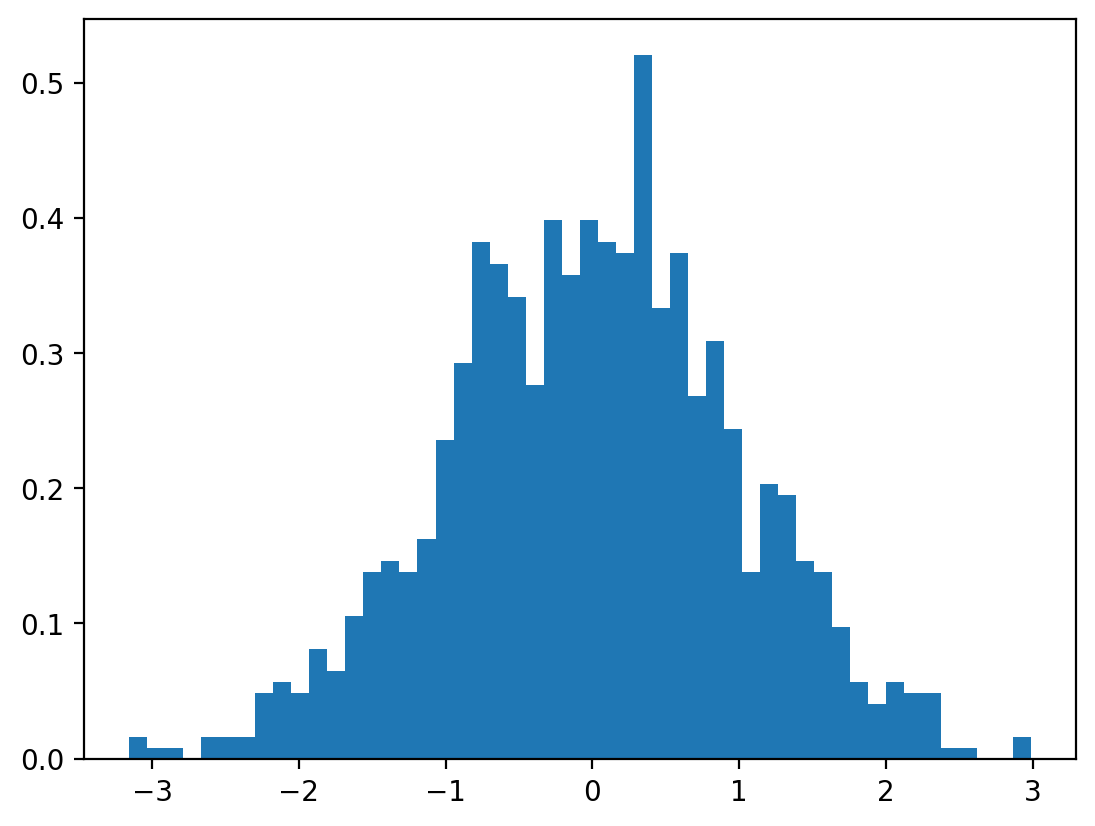
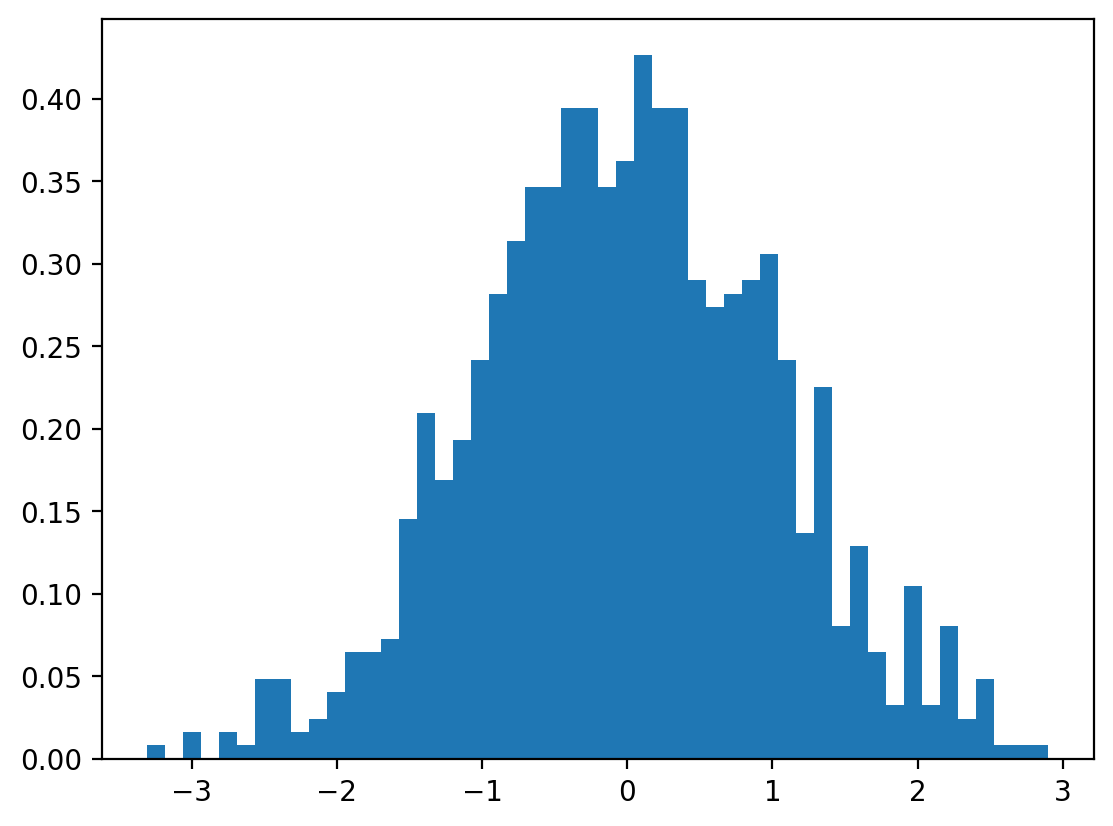
Built site for gh-pages

diff --git a/notebooks/cdf.html b/notebooks/cdf.html
@@ -199,7 +199,7 @@ pre > code.sourceCode > span > a:first-child::before { text-decoration: underlin
 </header>
 
 
-<div id="cell-1" class="cell" data-execution_count="1">
+<div id="cell-1" class="cell" data-execution_count="15">
 <div class="sourceCode cell-code" id="cb1"><pre class="sourceCode python code-with-copy"><code class="sourceCode python"><span id="cb1-1"><a href="#cb1-1" aria-hidden="true" tabindex="-1"></a><span class="im">import</span> matplotlib.pyplot <span class="im">as</span> plt</span>
 <span id="cb1-2"><a href="#cb1-2" aria-hidden="true" tabindex="-1"></a><span class="im">import</span> numpy <span class="im">as</span> np</span>
 <span id="cb1-3"><a href="#cb1-3" aria-hidden="true" tabindex="-1"></a><span class="bu">print</span>(np.__version__)</span>
@@ -216,28 +216,28 @@ pre > code.sourceCode > span > a:first-child::before { text-decoration: underlin
 </div>
 <section id="generating-random-numbers-from-a-categorical-distribution" class="level1">
 <h1>Generating random numbers from a categorical distribution</h1>
-<div id="cell-3" class="cell" data-execution_count="2">
+<div id="cell-3" class="cell" data-execution_count="16">
 <div class="sourceCode cell-code" id="cb3"><pre class="sourceCode python code-with-copy"><code class="sourceCode python"><span id="cb3-1"><a href="#cb3-1" aria-hidden="true" tabindex="-1"></a>probs <span class="op">=</span> torch.tensor([<span class="fl">0.1</span>, <span class="fl">0.2</span>, <span class="fl">0.3</span>, <span class="fl">0.4</span>])</span>
 <span id="cb3-2"><a href="#cb3-2" aria-hidden="true" tabindex="-1"></a><span class="bu">print</span>(probs)</span></code><button title="Copy to Clipboard" class="code-copy-button"><i class="bi"></i></button></pre></div>
 <div class="cell-output cell-output-stdout">
 <pre><code>tensor([0.1000, 0.2000, 0.3000, 0.4000])</code></pre>
 </div>
 </div>
-<div id="cell-4" class="cell" data-execution_count="3">
+<div id="cell-4" class="cell" data-execution_count="21">
 <div class="sourceCode cell-code" id="cb5"><pre class="sourceCode python code-with-copy"><code class="sourceCode python"><span id="cb5-1"><a href="#cb5-1" aria-hidden="true" tabindex="-1"></a>unif <span class="op">=</span> torch.distributions.uniform.Uniform(<span class="dv">0</span>, <span class="dv">1</span>)</span>
 <span id="cb5-2"><a href="#cb5-2" aria-hidden="true" tabindex="-1"></a><span class="bu">print</span>(unif.sample())</span></code><button title="Copy to Clipboard" class="code-copy-button"><i class="bi"></i></button></pre></div>
 <div class="cell-output cell-output-stdout">
-<pre><code>tensor(0.9147)</code></pre>
+<pre><code>tensor(0.1083)</code></pre>
 </div>
 </div>
-<div id="cell-5" class="cell" data-execution_count="4">
+<div id="cell-5" class="cell" data-execution_count="22">
 <div class="sourceCode cell-code" id="cb7"><pre class="sourceCode python code-with-copy"><code class="sourceCode python"><span id="cb7-1"><a href="#cb7-1" aria-hidden="true" tabindex="-1"></a>cum_sum_prob <span class="op">=</span> torch.cumsum(probs, dim<span class="op">=</span><span class="dv">0</span>)</span>
 <span id="cb7-2"><a href="#cb7-2" aria-hidden="true" tabindex="-1"></a><span class="bu">print</span>(cum_sum_prob)</span></code><button title="Copy to Clipboard" class="code-copy-button"><i class="bi"></i></button></pre></div>
 <div class="cell-output cell-output-stdout">
 <pre><code>tensor([0.1000, 0.3000, 0.6000, 1.0000])</code></pre>
 </div>
 </div>
-<div id="cell-6" class="cell" data-execution_count="5">
+<div id="cell-6" class="cell" data-execution_count="25">
 <div class="sourceCode cell-code" id="cb9"><pre class="sourceCode python code-with-copy"><code class="sourceCode python"><span id="cb9-1"><a href="#cb9-1" aria-hidden="true" tabindex="-1"></a>symbols  <span class="op">=</span> torch.tensor([<span class="dv">1</span>, <span class="dv">2</span>, <span class="dv">3</span>, <span class="dv">4</span>])</span>
 <span id="cb9-2"><a href="#cb9-2" aria-hidden="true" tabindex="-1"></a><span class="bu">print</span>(symbols)</span>
 <span id="cb9-3"><a href="#cb9-3" aria-hidden="true" tabindex="-1"></a>sample <span class="op">=</span> unif.sample()</span>
@@ -252,99 +252,59 @@ pre > code.sourceCode > span > a:first-child::before { text-decoration: underlin
 <span id="cb9-12"><a href="#cb9-12" aria-hidden="true" tabindex="-1"></a>    <span class="bu">print</span>(symbols[<span class="dv">3</span>])</span></code><button title="Copy to Clipboard" class="code-copy-button"><i class="bi"></i></button></pre></div>
 <div class="cell-output cell-output-stdout">
 <pre><code>tensor([1, 2, 3, 4])
-tensor(0.1879)
-tensor(2)</code></pre>
+tensor(0.6677)
+tensor(4)</code></pre>
 </div>
 </div>
-<div id="cell-7" class="cell" data-execution_count="6">
+<div id="cell-7" class="cell" data-execution_count="26">
 <div class="sourceCode cell-code" id="cb11"><pre class="sourceCode python code-with-copy"><code class="sourceCode python"><span id="cb11-1"><a href="#cb11-1" aria-hidden="true" tabindex="-1"></a>sample <span class="op">&lt;=</span> cum_sum_prob</span></code><button title="Copy to Clipboard" class="code-copy-button"><i class="bi"></i></button></pre></div>
-<div class="cell-output cell-output-display" data-execution_count="6">
-<pre><code>tensor([False,  True,  True,  True])</code></pre>
+<div class="cell-output cell-output-display" data-execution_count="26">
+<pre><code>tensor([False, False, False,  True])</code></pre>
 </div>
 </div>
-<div id="cell-8" class="cell" data-execution_count="7">
+<div id="cell-8" class="cell" data-execution_count="27">
 <div class="sourceCode cell-code" id="cb13"><pre class="sourceCode python code-with-copy"><code class="sourceCode python"><span id="cb13-1"><a href="#cb13-1" aria-hidden="true" tabindex="-1"></a>symbols[sample <span class="op">&lt;</span> cum_sum_prob][<span class="dv">0</span>]</span></code><button title="Copy to Clipboard" class="code-copy-button"><i class="bi"></i></button></pre></div>
-<div class="cell-output cell-output-display" data-execution_count="7">
-<pre><code>tensor(2)</code></pre>
+<div class="cell-output cell-output-display" data-execution_count="27">
+<pre><code>tensor(4)</code></pre>
 </div>
 </div>
-<div id="cell-9" class="cell" data-execution_count="8">
+<div id="cell-9" class="cell" data-execution_count="28">
 <div class="sourceCode cell-code" id="cb15"><pre class="sourceCode python code-with-copy"><code class="sourceCode python"><span id="cb15-1"><a href="#cb15-1" aria-hidden="true" tabindex="-1"></a><span class="co">### Even more efficient</span></span>
 <span id="cb15-2"><a href="#cb15-2" aria-hidden="true" tabindex="-1"></a>index <span class="op">=</span> torch.searchsorted(cum_sum_prob, sample)</span>
 <span id="cb15-3"><a href="#cb15-3" aria-hidden="true" tabindex="-1"></a><span class="bu">print</span>(symbols[index])</span></code><button title="Copy to Clipboard" class="code-copy-button"><i class="bi"></i></button></pre></div>
 <div class="cell-output cell-output-stdout">
-<pre><code>tensor(2)</code></pre>
+<pre><code>tensor(4)</code></pre>
 </div>
 </div>
-<div id="cell-10" class="cell" data-execution_count="9">
+<div id="cell-10" class="cell" data-execution_count="34">
 <div class="sourceCode cell-code" id="cb17"><pre class="sourceCode python code-with-copy"><code class="sourceCode python"><span id="cb17-1"><a href="#cb17-1" aria-hidden="true" tabindex="-1"></a><span class="co">### Vectorized</span></span>
-<span id="cb17-2"><a href="#cb17-2" aria-hidden="true" tabindex="-1"></a>num_samples <span class="op">=</span> <span class="dv">1000</span></span>
+<span id="cb17-2"><a href="#cb17-2" aria-hidden="true" tabindex="-1"></a>num_samples <span class="op">=</span> <span class="dv">100000</span></span>
 <span id="cb17-3"><a href="#cb17-3" aria-hidden="true" tabindex="-1"></a>unif_samples <span class="op">=</span> unif.sample((num_samples,))</span>
 <span id="cb17-4"><a href="#cb17-4" aria-hidden="true" tabindex="-1"></a></span>
 <span id="cb17-5"><a href="#cb17-5" aria-hidden="true" tabindex="-1"></a>index <span class="op">=</span> torch.searchsorted(cum_sum_prob, unif_samples)</span>
 <span id="cb17-6"><a href="#cb17-6" aria-hidden="true" tabindex="-1"></a>our_samples <span class="op">=</span> symbols[index]</span>
 <span id="cb17-7"><a href="#cb17-7" aria-hidden="true" tabindex="-1"></a><span class="bu">print</span>(our_samples)</span></code><button title="Copy to Clipboard" class="code-copy-button"><i class="bi"></i></button></pre></div>
 <div class="cell-output cell-output-stdout">
-<pre><code>tensor([1, 3, 3, 1, 2, 3, 2, 3, 1, 2, 4, 1, 3, 2, 2, 4, 4, 3, 3, 4, 2, 4, 4, 3,
-        4, 4, 2, 4, 4, 4, 2, 4, 4, 1, 4, 3, 3, 3, 4, 4, 2, 3, 3, 1, 4, 4, 4, 3,
-        3, 4, 1, 4, 4, 1, 3, 4, 4, 3, 4, 2, 2, 3, 1, 3, 4, 2, 4, 4, 3, 4, 4, 4,
-        2, 3, 3, 3, 4, 4, 4, 2, 2, 3, 3, 3, 4, 2, 2, 4, 2, 3, 4, 3, 1, 4, 4, 2,
-        4, 4, 4, 4, 3, 4, 4, 1, 3, 3, 1, 2, 1, 1, 2, 3, 4, 3, 3, 3, 3, 2, 4, 4,
-        4, 3, 1, 3, 1, 2, 4, 4, 3, 4, 1, 2, 3, 4, 4, 2, 2, 3, 2, 2, 3, 4, 4, 4,
-        4, 4, 2, 2, 4, 3, 2, 4, 4, 3, 4, 3, 3, 2, 4, 4, 3, 3, 2, 4, 4, 2, 4, 4,
-        2, 4, 3, 3, 2, 4, 4, 3, 4, 2, 4, 4, 3, 3, 4, 2, 2, 4, 3, 1, 2, 4, 4, 3,
-        3, 4, 3, 4, 2, 4, 3, 4, 3, 2, 4, 3, 3, 4, 2, 1, 4, 3, 2, 4, 1, 3, 4, 4,
-        3, 2, 4, 4, 3, 1, 4, 2, 4, 4, 3, 4, 3, 4, 4, 4, 3, 3, 4, 4, 4, 4, 3, 3,
-        3, 3, 4, 4, 3, 3, 1, 4, 4, 3, 4, 4, 3, 3, 2, 4, 4, 4, 2, 2, 4, 4, 4, 3,
-        2, 4, 4, 2, 2, 4, 4, 4, 4, 2, 2, 2, 4, 4, 4, 4, 2, 3, 3, 3, 1, 4, 3, 4,
-        4, 1, 4, 1, 4, 4, 3, 3, 3, 3, 4, 4, 1, 3, 3, 4, 3, 4, 4, 1, 3, 1, 4, 2,
-        3, 3, 3, 1, 1, 4, 4, 4, 4, 4, 4, 2, 3, 3, 3, 3, 4, 4, 2, 4, 3, 2, 2, 4,
-        4, 4, 4, 3, 4, 3, 4, 3, 4, 2, 3, 3, 2, 4, 3, 4, 4, 3, 4, 4, 1, 3, 3, 2,
-        4, 4, 3, 4, 1, 3, 3, 1, 4, 3, 3, 4, 4, 4, 4, 4, 3, 4, 4, 4, 2, 3, 4, 4,
-        2, 2, 3, 3, 2, 3, 3, 4, 4, 1, 2, 3, 4, 4, 4, 3, 4, 3, 3, 3, 4, 3, 4, 4,
-        4, 1, 3, 4, 2, 2, 2, 4, 1, 4, 4, 2, 4, 2, 4, 1, 3, 2, 3, 3, 4, 4, 3, 2,
-        3, 4, 4, 4, 3, 4, 3, 2, 4, 3, 3, 4, 3, 2, 4, 2, 4, 3, 2, 3, 4, 4, 4, 2,
-        4, 3, 4, 3, 3, 4, 2, 3, 2, 3, 1, 3, 4, 3, 4, 4, 3, 1, 3, 3, 4, 3, 1, 3,
-        1, 3, 1, 1, 4, 4, 3, 4, 4, 2, 1, 3, 2, 3, 1, 3, 4, 3, 4, 1, 4, 3, 2, 3,
-        3, 2, 3, 4, 2, 1, 3, 2, 4, 3, 2, 1, 3, 2, 4, 1, 3, 3, 3, 4, 3, 4, 4, 4,
-        1, 4, 4, 4, 4, 2, 2, 4, 4, 4, 4, 3, 1, 2, 4, 4, 3, 4, 2, 4, 3, 2, 3, 3,
-        3, 2, 4, 4, 2, 1, 4, 4, 4, 2, 3, 3, 2, 1, 1, 2, 4, 3, 4, 3, 2, 2, 3, 4,
-        2, 4, 3, 4, 4, 4, 3, 4, 4, 3, 3, 2, 4, 1, 4, 2, 4, 2, 4, 4, 4, 2, 2, 4,
-        2, 4, 2, 3, 3, 4, 2, 2, 1, 4, 3, 4, 4, 2, 2, 2, 4, 1, 3, 4, 4, 4, 3, 3,
-        2, 2, 2, 3, 4, 2, 4, 4, 4, 3, 2, 4, 4, 4, 3, 4, 3, 3, 1, 1, 2, 3, 3, 1,
-        2, 3, 4, 2, 2, 1, 4, 4, 4, 2, 4, 4, 3, 2, 3, 4, 1, 4, 4, 2, 3, 4, 4, 3,
-        4, 3, 4, 3, 4, 3, 4, 1, 4, 3, 4, 4, 3, 1, 4, 4, 3, 2, 3, 4, 3, 3, 3, 2,
-        3, 2, 4, 3, 3, 3, 3, 2, 3, 2, 4, 3, 3, 4, 2, 4, 3, 1, 4, 2, 4, 3, 4, 3,
-        2, 1, 1, 4, 3, 2, 3, 2, 3, 2, 3, 4, 4, 4, 2, 4, 4, 3, 4, 2, 3, 1, 4, 1,
-        4, 3, 4, 3, 4, 4, 3, 4, 1, 1, 2, 3, 4, 3, 4, 3, 2, 3, 3, 4, 4, 1, 3, 4,
-        2, 4, 2, 2, 4, 3, 4, 4, 3, 4, 4, 3, 3, 3, 4, 4, 4, 2, 2, 3, 4, 3, 3, 2,
-        4, 4, 4, 4, 3, 4, 4, 4, 4, 4, 2, 4, 3, 2, 2, 2, 4, 4, 3, 3, 1, 3, 3, 4,
-        2, 4, 4, 4, 2, 4, 2, 4, 1, 3, 2, 3, 3, 4, 4, 4, 3, 3, 4, 1, 4, 3, 3, 4,
-        4, 1, 2, 2, 2, 2, 4, 3, 3, 4, 2, 1, 3, 2, 3, 3, 1, 4, 1, 4, 3, 4, 3, 4,
-        1, 3, 4, 4, 2, 4, 4, 3, 3, 2, 4, 4, 4, 3, 2, 3, 4, 3, 4, 4, 4, 3, 4, 4,
-        3, 4, 3, 3, 4, 4, 4, 2, 4, 3, 4, 1, 1, 3, 4, 4, 4, 3, 3, 4, 2, 4, 4, 3,
-        3, 3, 3, 3, 3, 4, 4, 2, 4, 4, 4, 1, 4, 4, 4, 3, 4, 3, 2, 2, 4, 2, 3, 3,
-        4, 2, 1, 4, 3, 4, 2, 3, 3, 2, 4, 1, 4, 4, 3, 2, 4, 3, 1, 1, 3, 4, 4, 4,
-        4, 3, 4, 3, 3, 3, 3, 1, 1, 3, 2, 3, 2, 4, 2, 3, 3, 3, 2, 3, 4, 2, 2, 4,
-        2, 2, 4, 1, 1, 1, 4, 2, 4, 3, 4, 3, 4, 3, 1, 4])</code></pre>
+<pre><code>tensor([4, 3, 4,  ..., 1, 1, 3])</code></pre>
 </div>
 </div>
-<div id="cell-11" class="cell" data-execution_count="10">
+<div id="cell-11" class="cell" data-execution_count="35">
 <div class="sourceCode cell-code" id="cb19"><pre class="sourceCode python code-with-copy"><code class="sourceCode python"><span id="cb19-1"><a href="#cb19-1" aria-hidden="true" tabindex="-1"></a>samples_series <span class="op">=</span> pd.Series(our_samples)</span>
 <span id="cb19-2"><a href="#cb19-2" aria-hidden="true" tabindex="-1"></a>samples_series_norm <span class="op">=</span> samples_series.value_counts(normalize<span class="op">=</span><span class="va">True</span>)</span>
 <span id="cb19-3"><a href="#cb19-3" aria-hidden="true" tabindex="-1"></a>samples_series_norm.sort_index(inplace<span class="op">=</span><span class="va">True</span>)</span>
 <span id="cb19-4"><a href="#cb19-4" aria-hidden="true" tabindex="-1"></a>samples_series_norm.plot(kind<span class="op">=</span><span class="st">'bar'</span>, rot<span class="op">=</span><span class="dv">0</span>)</span>
 <span id="cb19-5"><a href="#cb19-5" aria-hidden="true" tabindex="-1"></a><span class="cf">for</span> i <span class="kw">in</span> <span class="bu">range</span>(<span class="dv">4</span>):</span>
-<span id="cb19-6"><a href="#cb19-6" aria-hidden="true" tabindex="-1"></a>    plt.axhline(probs[i].item(), color<span class="op">=</span><span class="st">'r'</span>, linestyle<span class="op">=</span><span class="st">'--'</span>)</span></code><button title="Copy to Clipboard" class="code-copy-button"><i class="bi"></i></button></pre></div>
+<span id="cb19-6"><a href="#cb19-6" aria-hidden="true" tabindex="-1"></a>    plt.axhline(probs[i].item(), color<span class="op">=</span><span class="st">'r'</span>, linestyle<span class="op">=</span><span class="st">'--'</span>)</span>
+<span id="cb19-7"><a href="#cb19-7" aria-hidden="true" tabindex="-1"></a>plt.ylim(<span class="dv">0</span>, <span class="fl">0.5</span>)</span></code><button title="Copy to Clipboard" class="code-copy-button"><i class="bi"></i></button></pre></div>
 <div class="cell-output cell-output-display">
 <div>
 <figure class="figure">
-<p><img src="cdf_files/figure-html/cell-11-output-1.png" width="556" height="413" class="figure-img"></p>
+<p><img src="cdf_files/figure-html/cell-11-output-1.png" width="547" height="418" class="figure-img"></p>
 </figure>
 </div>
 </div>
 </div>
-<div id="cell-12" class="cell" data-execution_count="11">
+<div id="cell-12" class="cell" data-execution_count="36">
 <div class="sourceCode cell-code" id="cb20"><pre class="sourceCode python code-with-copy"><code class="sourceCode python"><span id="cb20-1"><a href="#cb20-1" aria-hidden="true" tabindex="-1"></a><span class="co">## Generalised implementation when .icdf() is available</span></span>
 <span id="cb20-2"><a href="#cb20-2" aria-hidden="true" tabindex="-1"></a></span>
 <span id="cb20-3"><a href="#cb20-3" aria-hidden="true" tabindex="-1"></a><span class="kw">def</span> inverse_cdf_sampling(distribution, sample_size<span class="op">=</span><span class="dv">10000</span>):</span>
@@ -357,43 +317,43 @@ tensor(2)</code></pre>
 <div class="sourceCode cell-code" id="cb21"><pre class="sourceCode python code-with-copy"><code class="sourceCode python"><span id="cb21-1"><a href="#cb21-1" aria-hidden="true" tabindex="-1"></a>X <span class="op">=</span> torch.distributions.Normal(<span class="dv">0</span>, <span class="dv">1</span>)</span>
 <span id="cb21-2"><a href="#cb21-2" aria-hidden="true" tabindex="-1"></a>samples <span class="op">=</span> inverse_cdf_sampling(X, <span class="dv">1000</span>)</span></code><button title="Copy to Clipboard" class="code-copy-button"><i class="bi"></i></button></pre></div>
 </div>
-<div id="cell-14" class="cell" data-execution_count="14">
+<div id="cell-14" class="cell" data-execution_count="13">
 <div class="sourceCode cell-code" id="cb22"><pre class="sourceCode python code-with-copy"><code class="sourceCode python"><span id="cb22-1"><a href="#cb22-1" aria-hidden="true" tabindex="-1"></a><span class="co">### Use CDF function</span></span>
 <span id="cb22-2"><a href="#cb22-2" aria-hidden="true" tabindex="-1"></a>our_dist <span class="op">=</span> torch.distributions.Normal(<span class="dv">0</span>, <span class="dv">1</span>)</span>
 <span id="cb22-3"><a href="#cb22-3" aria-hidden="true" tabindex="-1"></a>unif_samples <span class="op">=</span> inverse_cdf_sampling(our_dist, <span class="dv">1000</span>)</span>
 <span id="cb22-4"><a href="#cb22-4" aria-hidden="true" tabindex="-1"></a></span>
 <span id="cb22-5"><a href="#cb22-5" aria-hidden="true" tabindex="-1"></a></span></code><button title="Copy to Clipboard" class="code-copy-button"><i class="bi"></i></button></pre></div>
 </div>
-<div id="cell-15" class="cell" data-execution_count="15">
+<div id="cell-15" class="cell" data-execution_count="14">
 <div class="sourceCode cell-code" id="cb23"><pre class="sourceCode python code-with-copy"><code class="sourceCode python"><span id="cb23-1"><a href="#cb23-1" aria-hidden="true" tabindex="-1"></a>plt.hist(samples.numpy(), bins<span class="op">=</span><span class="dv">50</span>, density<span class="op">=</span><span class="va">True</span>)</span></code><button title="Copy to Clipboard" class="code-copy-button"><i class="bi"></i></button></pre></div>
-<div class="cell-output cell-output-display" data-execution_count="15">
-<pre><code>(array([0.01627178, 0.00813589, 0.00813589, 0.        , 0.01627178,
-        0.01627178, 0.01627178, 0.04881535, 0.05695124, 0.04881535,
-        0.08135891, 0.06508713, 0.10576658, 0.13831015, 0.14644604,
-        0.13831015, 0.16271782, 0.23594084, 0.29289207, 0.38238687,
-        0.36611509, 0.34170742, 0.27662029, 0.39865866, 0.3579792 ,
-        0.39865866, 0.38238687, 0.37425098, 0.52069702, 0.33357153,
-        0.37425098, 0.2684844 , 0.30916326, 0.2440772 , 0.13831041,
-        0.20339688, 0.195261  , 0.14644632, 0.13831041, 0.0976305 ,
-        0.05695113, 0.04067953, 0.05695135, 0.04881525, 0.04881525,
-        0.00813591, 0.00813591, 0.        , 0.        , 0.01627181]),
- array([-3.15819168, -3.03527951, -2.91236734, -2.78945518, -2.66654301,
-        -2.54363084, -2.42071867, -2.2978065 , -2.17489433, -2.05198216,
-        -1.92907   , -1.80615783, -1.68324566, -1.56033349, -1.43742132,
-        -1.31450915, -1.19159698, -1.06868482, -0.94577265, -0.82286048,
-        -0.69994831, -0.57703614, -0.45412397, -0.33121181, -0.20829964,
-        -0.08538747,  0.0375247 ,  0.16043687,  0.28334904,  0.40626121,
-         0.52917337,  0.65208554,  0.77499771,  0.89791012,  1.02082205,
-         1.14373398,  1.26664639,  1.38955879,  1.51247072,  1.63538265,
-         1.75829506,  1.88120747,  2.0041194 ,  2.12703133,  2.24994373,
-         2.37285614,  2.49576807,  2.61868   ,  2.74159241,  2.86450481,
-         2.98741674]),
+<div class="cell-output cell-output-display" data-execution_count="14">
+<pre><code>(array([0.00805124, 0.        , 0.01610249, 0.        , 0.01610249,
+        0.00805124, 0.04830747, 0.04830747, 0.01610252, 0.02415369,
+        0.04025626, 0.06440996, 0.06440996, 0.0724612 , 0.14492241,
+        0.20933236, 0.1690763 , 0.19322987, 0.24153734, 0.28179357,
+        0.31399854, 0.34620352, 0.34620352, 0.39451099, 0.39451099,
+        0.34620352, 0.36230601, 0.42671597, 0.39451099, 0.39451099,
+        0.28984481, 0.27374232, 0.28179357, 0.28984537, 0.30594671,
+        0.24153781, 0.1368709 , 0.22543529, 0.08051229, 0.12882016,
+        0.06440983, 0.03220504, 0.10466598, 0.03220504, 0.08051229,
+        0.02415378, 0.04830738, 0.00805126, 0.00805123, 0.00805124]),
+ array([-3.30904436, -3.18483996, -3.06063557, -2.93643117, -2.81222677,
+        -2.68802238, -2.56381798, -2.43961358, -2.31540918, -2.19120502,
+        -2.06700039, -1.94279611, -1.81859171, -1.69438732, -1.57018292,
+        -1.44597852, -1.32177413, -1.19756985, -1.07336545, -0.94916105,
+        -0.82495666, -0.70075226, -0.57654786, -0.45234346, -0.32813907,
+        -0.20393467, -0.07973027,  0.04447412,  0.16867852,  0.29288292,
+         0.41708732,  0.54129171,  0.66549611,  0.78970051,  0.91390467,
+         1.0381093 ,  1.16231346,  1.2865181 ,  1.41072226,  1.53492689,
+         1.65913105,  1.78333569,  1.90753984,  2.03174448,  2.15594864,
+         2.28015327,  2.40435743,  2.52856207,  2.65276623,  2.77697086,
+         2.90117526]),
  &lt;BarContainer object of 50 artists&gt;)</code></pre>
 </div>
 <div class="cell-output cell-output-display">
 <div>
 <figure class="figure">
-<p><img src="cdf_files/figure-html/cell-15-output-2.png" width="547" height="413" class="figure-img"></p>
+<p><img src="cdf_files/figure-html/cell-15-output-2.png" width="556" height="413" class="figure-img"></p>
 </figure>
 </div>
 </div>

diff --git a/notebooks.html b/notebooks.html
@@ -209,7 +209,7 @@ window.Quarto = {
 
 <div class="quarto-listing quarto-listing-container-default" id="listing-listing">
 <div class="list quarto-listing-default">
-<div class="quarto-post image-right" data-index="0" data-listing-file-modified-sort="1742129987241">
+<div class="quarto-post image-right" data-index="0" data-listing-file-modified-sort="1742191404886">
 <div class="thumbnail">
 <p><a href="./notebooks/expectation.html" class="no-external"></a></p><a href="./notebooks/expectation.html" class="no-external">
 <p class="card-img-top"><img src="notebooks/expectation_files/figure-html/cell-5-output-2.png"  class="thumbnail-image card-img"/></p>
@@ -231,7 +231,7 @@ window.Quarto = {
 </a>
 </div>
 </div>
-<div class="quarto-post image-right" data-index="1" data-listing-file-modified-sort="1742129987301" data-listing-reading-time-sort="3" data-listing-word-count-sort="543">
+<div class="quarto-post image-right" data-index="1" data-listing-file-modified-sort="1742191404946" data-listing-reading-time-sort="3" data-listing-word-count-sort="543">
 <div class="thumbnail">
 <p><a href="./notebooks/introduction-matplotlib.html" class="no-external"></a></p><a href="./notebooks/introduction-matplotlib.html" class="no-external">
 <p class="card-img-top"><img src="notebooks/introduction-matplotlib_files/figure-html/cell-5-output-1.png"  class="thumbnail-image card-img"/></p>
@@ -253,7 +253,7 @@ window.Quarto = {
 </a>
 </div>
 </div>
-<div class="quarto-post image-right" data-index="2" data-listing-file-modified-sort="1742129987346">
+<div class="quarto-post image-right" data-index="2" data-listing-file-modified-sort="1742191404991">
 <div class="thumbnail">
 <p><a href="./notebooks/probability.html" class="no-external"></a></p><a href="./notebooks/probability.html" class="no-external">
 <div class="listing-item-img-placeholder card-img-top" >&nbsp;</div>
@@ -275,7 +275,7 @@ window.Quarto = {
 </a>
 </div>
 </div>
-<div class="quarto-post image-right" data-index="3" data-listing-file-modified-sort="1742129987346">
+<div class="quarto-post image-right" data-index="3" data-listing-file-modified-sort="1742191404992">
 <div class="thumbnail">
 <p><a href="./notebooks/quiz1.html" class="no-external"></a></p><a href="./notebooks/quiz1.html" class="no-external">
 <div class="listing-item-img-placeholder card-img-top" >&nbsp;</div>
@@ -306,7 +306,7 @@ window.Quarto = {
 </a>
 </div>
 </div>
-<div class="quarto-post image-right" data-index="4" data-listing-file-modified-sort="1742129987363">
+<div class="quarto-post image-right" data-index="4" data-listing-file-modified-sort="1742191405008">
 <div class="thumbnail">
 <p><a href="./notebooks/widgets.html" class="no-external"></a></p><a href="./notebooks/widgets.html" class="no-external">
 <p class="card-img-top"><img src="notebooks/widgets_files/figure-html/cell-12-output-2.png"  class="thumbnail-image card-img"/></p>
@@ -334,7 +334,7 @@ window.Quarto = {
 </a>
 </div>
 </div>
-<div class="quarto-post image-right" data-index="5" data-categories="TUw=" data-listing-date-sort="1741132800000" data-listing-file-modified-sort="1742129987212" data-listing-date-modified-sort="NaN" data-listing-reading-time-sort="1" data-listing-word-count-sort="1">
+<div class="quarto-post image-right" data-index="5" data-categories="TUw=" data-listing-date-sort="1741132800000" data-listing-file-modified-sort="1742191404856" data-listing-date-modified-sort="NaN" data-listing-reading-time-sort="1" data-listing-word-count-sort="1">
 <div class="thumbnail">
 <p><a href="./notebooks/cdf.html" class="no-external"></a></p><a href="./notebooks/cdf.html" class="no-external">
 <p class="card-img-top"><img src="notebooks/cdf_files/figure-html/cell-11-output-1.png"  class="thumbnail-image card-img"/></p>
@@ -377,7 +377,7 @@ Nipun Batra
 </a>
 </div>
 </div>
-<div class="quarto-post image-right" data-index="6" data-categories="TUw=" data-listing-date-sort="1739750400000" data-listing-file-modified-sort="1742129987343" data-listing-date-modified-sort="NaN" data-listing-reading-time-sort="4" data-listing-word-count-sort="711">
+<div class="quarto-post image-right" data-index="6" data-categories="TUw=" data-listing-date-sort="1739750400000" data-listing-file-modified-sort="1742191404989" data-listing-date-modified-sort="NaN" data-listing-reading-time-sort="4" data-listing-word-count-sort="711">
 <div class="thumbnail">
 <p><a href="./notebooks/pdf-continuous.html" class="no-external"></a></p><a href="./notebooks/pdf-continuous.html" class="no-external">
 <p class="card-img-top"><img src="notebooks/pdf-continuous_files/figure-html/cell-9-output-1.png"  class="thumbnail-image card-img"/></p>
@@ -410,7 +410,7 @@ Nipun Batra
 </a>
 </div>
 </div>
-<div class="quarto-post image-right" data-index="7" data-categories="TUw=" data-listing-date-sort="1739232000000" data-listing-file-modified-sort="1742129987346" data-listing-date-modified-sort="NaN" data-listing-reading-time-sort="6" data-listing-word-count-sort="1021">
+<div class="quarto-post image-right" data-index="7" data-categories="TUw=" data-listing-date-sort="1739232000000" data-listing-file-modified-sort="1742191404991" data-listing-date-modified-sort="NaN" data-listing-reading-time-sort="6" data-listing-word-count-sort="1021">
 <div class="thumbnail">
 <p><a href="./notebooks/pmf-discrete.html" class="no-external"></a></p><a href="./notebooks/pmf-discrete.html" class="no-external">
 <p class="card-img-top"><img src="notebooks/pmf-discrete_files/figure-html/cell-4-output-1.png"  class="thumbnail-image card-img"/></p>
@@ -443,7 +443,7 @@ Nipun Batra
 </a>
 </div>
 </div>
-<div class="quarto-post image-right" data-index="8" data-categories="TUw=" data-listing-date-sort="1739145600000" data-listing-file-modified-sort="1742129987211" data-listing-date-modified-sort="NaN" data-listing-reading-time-sort="1" data-listing-word-count-sort="1">
+<div class="quarto-post image-right" data-index="8" data-categories="TUw=" data-listing-date-sort="1739145600000" data-listing-file-modified-sort="1742191404856" data-listing-date-modified-sort="NaN" data-listing-reading-time-sort="1" data-listing-word-count-sort="1">
 <div class="thumbnail">
 <p><a href="./notebooks/cdf-discrete.html" class="no-external"></a></p><a href="./notebooks/cdf-discrete.html" class="no-external">
 <p class="card-img-top"><img src="notebooks/cdf-discrete_files/figure-html/cell-12-output-2.png"  class="thumbnail-image card-img"/></p>
@@ -485,7 +485,7 @@ Nipun Batra
 </a>
 </div>
 </div>
-<div class="quarto-post image-right" data-index="9" data-categories="TUw=" data-listing-date-sort="1739145600000" data-listing-file-modified-sort="1742129987311" data-listing-date-modified-sort="NaN" data-listing-reading-time-sort="1" data-listing-word-count-sort="1">
+<div class="quarto-post image-right" data-index="9" data-categories="TUw=" data-listing-date-sort="1739145600000" data-listing-file-modified-sort="1742191404955" data-listing-date-modified-sort="NaN" data-listing-reading-time-sort="1" data-listing-word-count-sort="1">
 <div class="thumbnail">
 <p><a href="./notebooks/logistic-regression-generative.html" class="no-external"></a></p><a href="./notebooks/logistic-regression-generative.html" class="no-external">
 <p class="card-img-top"><img src="notebooks/logistic-regression-generative_files/figure-html/cell-9-output-2.png"  class="thumbnail-image card-img"/></p>
@@ -527,7 +527,7 @@ Nipun Batra
 </a>
 </div>
 </div>
-<div class="quarto-post image-right" data-index="10" data-listing-date-sort="1736726400000" data-listing-file-modified-sort="1742129987307" data-listing-date-modified-sort="NaN" data-listing-reading-time-sort="4" data-listing-word-count-sort="626">
+<div class="quarto-post image-right" data-index="10" data-listing-date-sort="1736726400000" data-listing-file-modified-sort="1742191404951" data-listing-date-modified-sort="NaN" data-listing-reading-time-sort="4" data-listing-word-count-sort="626">
 <div class="thumbnail">
 <p><a href="./notebooks/introduction-pandas.html" class="no-external"></a></p><a href="./notebooks/introduction-pandas.html" class="no-external">
 <p class="card-img-top"><img src="notebooks/introduction-pandas_files/figure-html/cell-13-output-1.png"  class="thumbnail-image card-img"/></p>
@@ -555,7 +555,7 @@ Nipun Batra, Shreyans Jain, Guntas Singh Saran
 </a>
 </div>
 </div>
-<div class="quarto-post image-right" data-index="11" data-listing-date-sort="1736208000000" data-listing-file-modified-sort="1742129987268" data-listing-date-modified-sort="NaN" data-listing-reading-time-sort="2" data-listing-word-count-sort="252">
+<div class="quarto-post image-right" data-index="11" data-listing-date-sort="1736208000000" data-listing-file-modified-sort="1742191404912" data-listing-date-modified-sort="NaN" data-listing-reading-time-sort="2" data-listing-word-count-sort="252">
 <div class="thumbnail">
 <p><a href="./notebooks/intro-numpy.html" class="no-external"></a></p><a href="./notebooks/intro-numpy.html" class="no-external">
 <p class="card-img-top"><img src="notebooks/intro-numpy_files/figure-html/cell-5-output-1.png"  class="thumbnail-image card-img"/></p>
@@ -583,7 +583,7 @@ Nipun Batra, Shreyans Jain
 </a>
 </div>
 </div>
-<div class="quarto-post image-right" data-index="12" data-categories="TUw=" data-listing-date-sort="1736035200000" data-listing-file-modified-sort="1742129987268" data-listing-date-modified-sort="NaN" data-listing-reading-time-sort="1" data-listing-word-count-sort="1">
+<div class="quarto-post image-right" data-index="12" data-categories="TUw=" data-listing-date-sort="1736035200000" data-listing-file-modified-sort="1742191404913" data-listing-date-modified-sort="NaN" data-listing-reading-time-sort="1" data-listing-word-count-sort="1">
 <div class="thumbnail">
 <p><a href="./notebooks/intro.html" class="no-external"></a></p><a href="./notebooks/intro.html" class="no-external">
 <p class="card-img-top"><img src="notebooks/intro_files/figure-html/cell-5-output-3.png"  class="thumbnail-image card-img"/></p>
@@ -624,7 +624,7 @@ Nipun Batra
 </a>
 </div>
 </div>
-<div class="quarto-post image-right" data-index="13" data-categories="TUw=" data-listing-date-sort="1733529600000" data-listing-file-modified-sort="1742129987355" data-listing-date-modified-sort="NaN" data-listing-reading-time-sort="1" data-listing-word-count-sort="1">
+<div class="quarto-post image-right" data-index="13" data-categories="TUw=" data-listing-date-sort="1733529600000" data-listing-file-modified-sort="1742191405000" data-listing-date-modified-sort="NaN" data-listing-reading-time-sort="1" data-listing-word-count-sort="1">
 <div class="thumbnail">
 <p><a href="./notebooks/set.html" class="no-external"></a></p><a href="./notebooks/set.html" class="no-external">
 <p class="card-img-top"><img src="notebooks/set_files/figure-html/cell-6-output-1.png"  class="thumbnail-image card-img"/></p>
@@ -665,7 +665,7 @@ Nipun Batra
 </a>
 </div>
 </div>
-<div class="quarto-post image-right" data-index="14" data-categories="TUw=" data-listing-date-sort="1733356800000" data-listing-file-modified-sort="1742129987349" data-listing-date-modified-sort="NaN" data-listing-reading-time-sort="1" data-listing-word-count-sort="1">
+<div class="quarto-post image-right" data-index="14" data-categories="TUw=" data-listing-date-sort="1733356800000" data-listing-file-modified-sort="1742191404994" data-listing-date-modified-sort="NaN" data-listing-reading-time-sort="1" data-listing-word-count-sort="1">
 <div class="thumbnail">
 <p><a href="./notebooks/random-variables.html" class="no-external"></a></p><a href="./notebooks/random-variables.html" class="no-external">
 <p class="card-img-top"><img src="notebooks/random-variables_files/figure-html/cell-21-output-2.png"  class="thumbnail-image card-img"/></p>

diff --git a/slides.html b/slides.html
@@ -209,7 +209,7 @@ window.Quarto = {
 
 <div class="quarto-listing quarto-listing-container-default" id="listing-listing">
 <div class="list quarto-listing-default">
-<div class="quarto-post image-right" data-index="0" data-listing-file-modified-sort="1742129987363">
+<div class="quarto-post image-right" data-index="0" data-listing-file-modified-sort="1742191405009">
 <div class="body">
 
 </div>
@@ -219,7 +219,7 @@ window.Quarto = {
 expectation.pdf
 </div>
 <div class="metadata-value listing-file-modified">
-3/16/25, 12:59:47 PM
+3/17/25, 6:03:25 AM
 </div>
 </a>
 </div>
